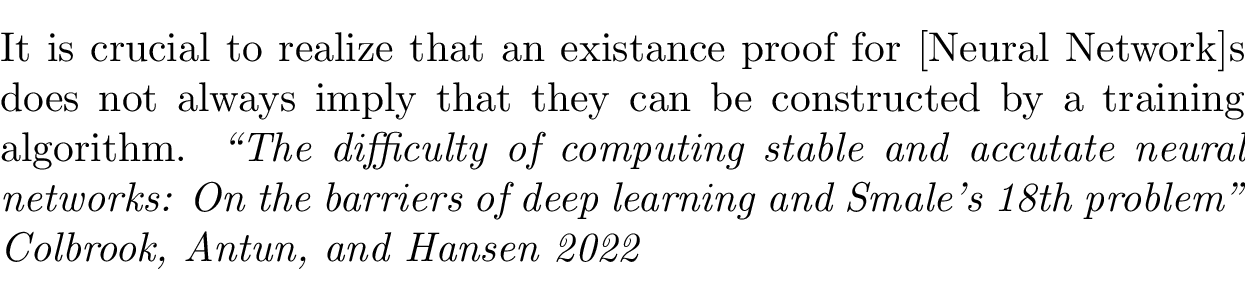
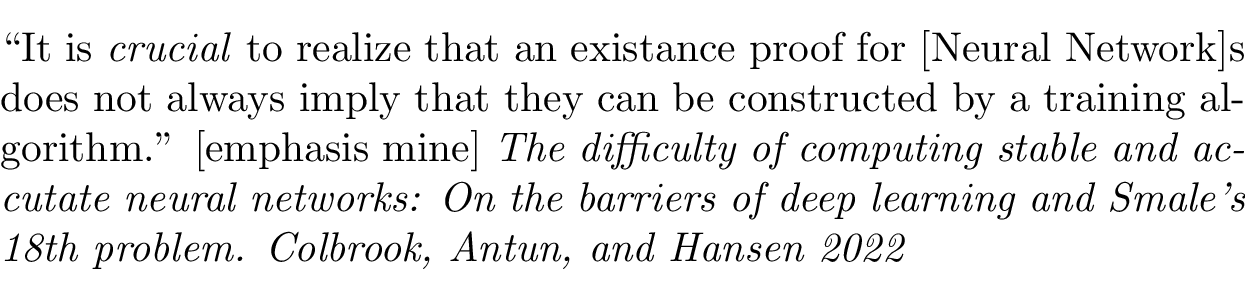
update Colbrook et al.

diff --git a/code/Colbrook_etal_2022.tex b/code/Colbrook_etal_2022.tex
@@ -5,12 +5,12 @@
 
 \begin{document}
 \parbox[t][72pt][c]{300pt}{
-	It is crucial to realize that an existance proof for [Neural
+	``It is \emph{crucial} to realize that an existance proof for [Neural
 	Network]s does not always imply that they can be constructed by a
-	training algorithm.
-\textit{``The difficulty of computing stable and accutate neural
+	training algorithm.'' [emphasis added]
+\textit{The difficulty of computing stable and accutate neural
 	networks: On the barriers of deep learning and Smale's 18th
-	problem'' Colbrook, Antun, and Hansen 2022}
+	problem. Colbrook, Antun, and Hansen 2022}
 }
 \end{document}
 
